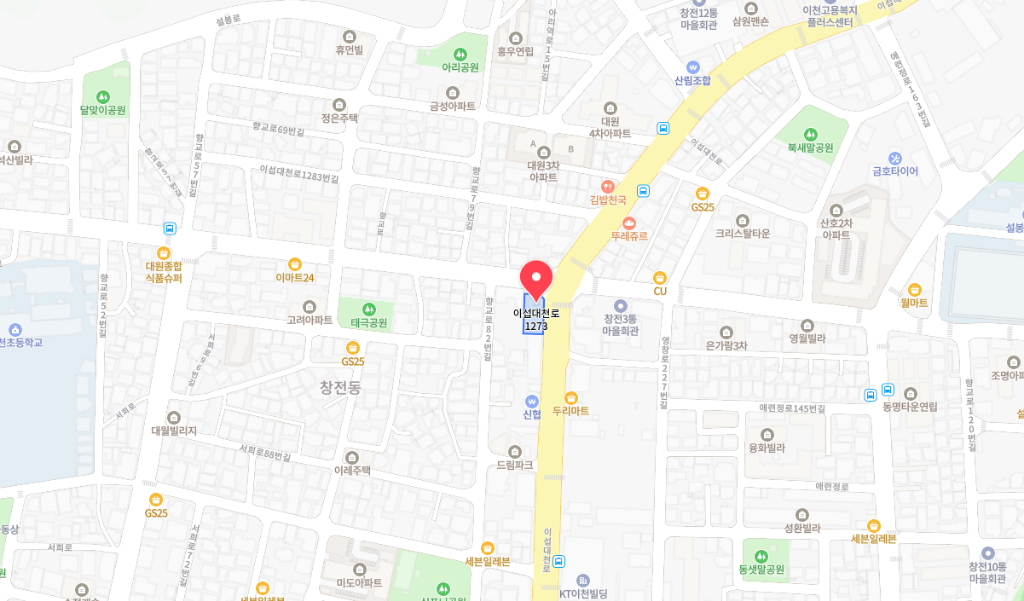
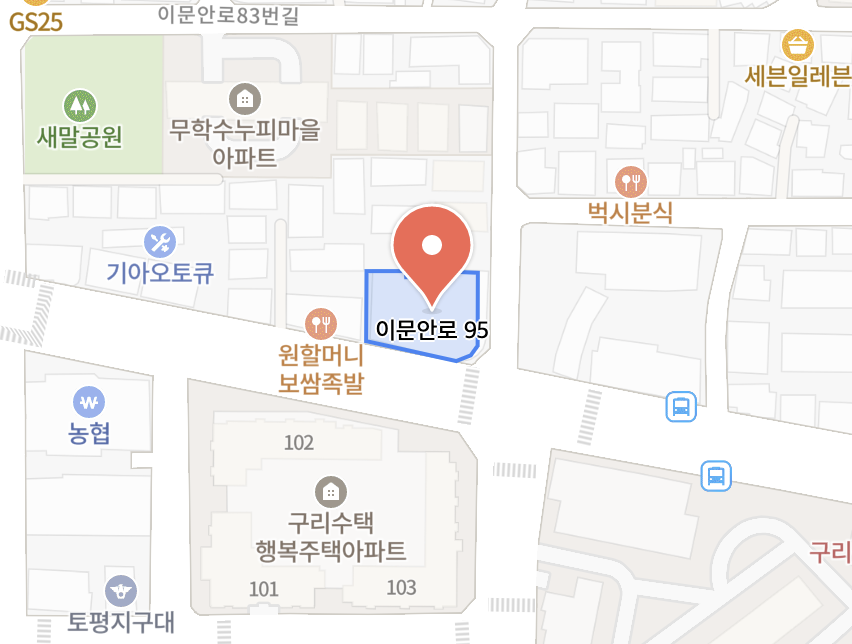
feat: misogold 세부 정보 입력

diff --git a/components/HeroBanner.tsx b/components/HeroBanner.tsx
@@ -68,16 +68,18 @@ export default function HeroBanner({ initialPrices }: HeroBannerProps) {
         >
           {/* Logo and Title above the table */}
           <div id="today-price" className="flex flex-col items-center gap-2">
-            <span className="mt-2 text-3xl sm:text-4xl font-extrabold tracking-tight text-zinc-900">
-              미소<span className="text-gold">골드</span>
-            </span>
+            <img
+              src="/miso-logo.png"
+              alt="미소금거래소"
+              className="mt-2 h-24 sm:h-28 w-auto"
+            />
             <h2 className="text-xl sm:text-2xl font-extrabold tracking-tight text-zinc-700">
               오늘의 시세표
             </h2>
           </div>
 
           {/* Unit and Date Row */}
-          <div className="flex justify-between items-center w-full text-sm sm:text-base font-semibold text-zinc-500 mb-2 px-1">
+          <div className="flex justify-between items-center w-full text-lg sm:text-xl font-semibold text-zinc-500 mb-2 px-1">
             <span>단위 : 3.75g 한돈 기준</span>
             <span>{todayDate}</span>
           </div>
@@ -100,6 +102,11 @@ export default function HeroBanner({ initialPrices }: HeroBannerProps) {
                     <th scope="col" className="px-2 py-1.5 sm:px-6 sm:py-2.5 text-[11px] sm:text-[16px] xl:text-[18px] font-bold tracking-wider text-zinc-900">
                       <span className="hidden sm:inline">내가 팔 때</span>
                       <span className="sm:hidden">내가 팔 때</span>
+                    </th>
+                  </tr>
+                  <tr className="border-b border-gold/30">
+                    <th colSpan={3} className="px-2 py-2 sm:py-2.5 text-[12px] sm:text-[16px] xl:text-[17px] font-bold tracking-tight text-gold-dark">
+                      * 추가적인 차감 없이 시세표 그대로 매입합니다 *
                     </th>
                   </tr>
                 </thead>
@@ -125,6 +132,20 @@ export default function HeroBanner({ initialPrices }: HeroBannerProps) {
                   )}
                 </tbody>
               </table>
+            </div>
+          </div>
+
+          {/* Purchase promise notice */}
+          <div className="mt-6 text-center">
+            <h3 className="text-lg sm:text-2xl font-extrabold tracking-tight text-zinc-900">
+              최고가 매입 최저가 판매로 정성껏 모시겠습니다
+            </h3>
+            <div className="mt-3 rounded-xl border-2 border-gold/50 px-3 py-5 sm:px-8 sm:py-6 text-[13px] sm:text-lg font-bold text-zinc-800">
+              <p>순금, 18K, 14K 모든 제품 매입 및 할인가 판매</p>
+              <p>치금, 은수저 등 모든 금/은제품 매입합니다.</p>
+              <p>GIA, 우신, 현대 다이아매입전문</p>
+              <p>감정서 없는 다이아몬드도 고가 매입해드립니다.</p>
+              <p>작은 양이라도 정성껏 매입합니다.</p>
             </div>
           </div>
         </div>
@@ -158,7 +179,7 @@ export default function HeroBanner({ initialPrices }: HeroBannerProps) {
             </div>
 
             <div>
-              <div className="flex justify-between items-center w-full text-sm sm:text-base font-semibold text-zinc-700 mb-3 px-2 sm:px-6">
+              <div className="flex justify-between items-center w-full text-lg sm:text-xl font-semibold text-zinc-700 mb-3 px-2 sm:px-6">
                 <span>단위 : 3.75g 한돈 기준</span>
                 <span>{todayDate}</span>
               </div>
@@ -179,6 +200,11 @@ export default function HeroBanner({ initialPrices }: HeroBannerProps) {
                         <th scope="col" className="px-2 py-2 sm:px-6 sm:py-3 text-[13px] sm:text-[18px] lg:text-[20px] font-bold tracking-wider text-zinc-900">
                           <span className="hidden sm:inline">내가 팔 때</span>
                           <span className="sm:hidden">내가 팔 때</span>
+                        </th>
+                      </tr>
+                      <tr className="border-b border-gold/25">
+                        <th colSpan={3} className="px-2 py-2.5 sm:py-3 text-[14px] sm:text-[18px] lg:text-[19px] font-bold tracking-tight text-gold-dark">
+                          * 추가적인 차감 없이 시세표 그대로 매입합니다 *
                         </th>
                       </tr>
                     </thead>
@@ -204,6 +230,20 @@ export default function HeroBanner({ initialPrices }: HeroBannerProps) {
                       )}
                     </tbody>
                   </table>
+                </div>
+              </div>
+
+              {/* Purchase promise notice */}
+              <div className="mt-8 text-center">
+                <h3 className="text-xl sm:text-3xl font-extrabold tracking-tight text-zinc-900">
+                  최고가 매입 최저가 판매로 정성껏 모시겠습니다
+                </h3>
+                <div className="mt-4 rounded-xl border-2 border-gold/50 px-3 py-5 sm:px-8 sm:py-7 text-[14px] sm:text-xl font-bold text-zinc-800">
+                  <p>순금, 18K, 14K 모든 제품 매입 및 할인가 판매</p>
+                  <p>치금, 은수저 등 모든 금/은제품 매입합니다.</p>
+                  <p>GIA, 우신, 현대 다이아매입전문</p>
+                  <p>감정서 없는 다이아몬드도 고가 매입해드립니다.</p>
+                  <p>작은 양이라도 정성껏 매입합니다.</p>
                 </div>
               </div>
             </div>

diff --git a/components/Directions.tsx b/components/Directions.tsx
@@ -3,8 +3,8 @@
 import React from "react";
 
 export default function Directions() {
-  const address = "경기도 이천시 이섭대천로 1273(창전동), 1층 101호";
-  const naverMapUrl = "https://map.naver.com/p/search/%EA%B2%BD%EA%B8%B0%EB%8F%84%20%EC%9D%B4%EC%B2%9C%EC%8B%9C%20%EC%9D%B4%EC%84%AD%EB%8C%80%EC%B2%9C%EB%A1%9C%201273%20(%EC%B0%BD%EC%A0%84%EB%8F%99)%2C%201%EC%B8%B5%20101%ED%98%B8";
+  const address = "경기도 구리시 이문안로 95, 104호(수택동, 해원빌딩)";
+  const naverMapUrl = "https://map.naver.com/p/search/%EA%B2%BD%EA%B8%B0%EB%8F%84%20%EA%B5%AC%EB%A6%AC%EC%8B%9C%20%EC%9D%B4%EB%AC%B8%EC%95%88%EB%A1%9C%2095%20%ED%95%B4%EC%9B%90%EB%B9%8C%EB%94%A9";
 
   return (
     <section id="directions" className="py-24 bg-background border-t border-zinc-200">
@@ -57,9 +57,12 @@ export default function Directions() {
                 <p className="mt-2 text-lg font-extrabold text-zinc-900 leading-relaxed">
                   {address}
                 </p>
-                <p className="mt-1 text-sm text-zinc-500 font-semibold">
-                  * 주차정보: 무료주차 가능
+                <p className="mt-1 text-base font-bold text-gold-dark">
+                  (수택동 장스365의원/럭키아파트 사거리앞)
                 </p>
+                {/* <p className="mt-1 text-sm text-zinc-500 font-semibold">
+                  * 주차정보: 무료주차 가능
+                </p> */}
               </div>
 
               {/* Business Hours */}
@@ -70,7 +73,7 @@ export default function Directions() {
                     <span className="font-bold">매일</span>
                     <span className="font-mono font-bold text-zinc-900">09:00 - 19:30</span>
                   </div>
-                  <div className="py-2 text-emerald-600 font-bold text-xs">
+                  <div className="py-2 text-emerald-600 font-bold text-base">
                     * 365일 휴일없이 영업합니다^^
                   </div>
                 </div>
@@ -81,10 +84,7 @@ export default function Directions() {
                 <h4 className="text-xs font-bold text-gold uppercase tracking-wider">전화번호</h4>
                 <div className="mt-2 space-y-1">
                   <p className="text-xl font-extrabold text-zinc-800 font-mono">
-                    031-636-3060
-                  </p>
-                  <p className="text-xl font-extrabold text-zinc-800 font-mono">
-                    010-7634-2231
+                    010-6655-2299
                   </p>
                 </div>
               </div>
@@ -94,13 +94,13 @@ export default function Directions() {
             {/* Quick action buttons */}
             <div className="grid grid-cols-2 gap-4 pt-6 border-t border-zinc-200">
               <a
-                href="tel:010-7634-2231"
+                href="tel:010-6655-2299"
                 className="flex items-center justify-center gap-2 rounded-xl bg-gold py-3 text-center text-sm font-bold text-white shadow-sm hover:bg-gold-dark transition-all duration-150"
               >
                 전화 바로 걸기
               </a>
               <a
-                href="sms:010-7634-2231?body=안녕하세요. 금 시세 문의드립니다."
+                href="sms:010-6655-2299?body=안녕하세요. 금 시세 문의드립니다."
                 className="flex items-center justify-center gap-2 rounded-xl bg-zinc-800 py-3 text-center text-sm font-bold text-white shadow-sm hover:bg-zinc-700 transition-all duration-150"
               >
                 문자 문의하기

diff --git a/components/FloatingWidgets.tsx b/components/FloatingWidgets.tsx
@@ -1,6 +1,7 @@
 "use client";
 
 import React, { useState } from "react";
+import Image from "next/image";
 
 export default function FloatingWidgets() {
   const [isOpen, setIsOpen] = useState(true);
@@ -26,7 +27,7 @@ export default function FloatingWidgets() {
         <>
           {/* 1. Phone Call Action */}
           <a
-            href="tel:010-7634-2231"
+            href="tel:010-6655-2299"
             className="flex h-10 w-10 items-center justify-center rounded-full bg-gold text-white shadow-xl hover:bg-gold-dark hover:scale-110 transition-all duration-200"
             title="전화 문의하기"
           >
@@ -48,10 +49,10 @@ export default function FloatingWidgets() {
           </button>
 
           {/* 3. Naver Talk Talk (Message Widget) */}
+          {/* 미소금거래소 톡톡 채널 준비 전까지 클릭 이동 임시 비활성화.
+              복원 시 아래에 href / target="_blank" / rel="noopener noreferrer" 다시 추가 */}
           <a
-            href="https://talk.naver.com/ct/w9ehxwv?frm=home"
-            target="_blank"
-            rel="noopener noreferrer"
+            onClick={(event) => event.preventDefault()}
             className="flex h-10 w-10 items-center justify-center rounded-full bg-gold text-white shadow-xl hover:bg-gold-dark hover:scale-110 transition-all duration-200"
             title="톡톡 상담하기"
           >
@@ -62,15 +63,17 @@ export default function FloatingWidgets() {
 
           {/* 4. Naver Map Link (Green Circle Button) */}
           <a
-            href="https://map.naver.com/p/entry/place/2040610373?placePath=%2Fhome%3Ffrom%3Dmap%26fromPanelNum%3D1%26additionalHeight%3D76%26timestamp%3D202607041746%26locale%3Dko%26svcName%3Dmap_pcv5"
+            href="https://map.naver.com/p/search/%EA%B2%BD%EA%B8%B0%EB%8F%84%20%EA%B5%AC%EB%A6%AC%EC%8B%9C%20%EC%9D%B4%EB%AC%B8%EC%95%88%EB%A1%9C%2095%20%ED%95%B4%EC%9B%90%EB%B9%8C%EB%94%A9"
             target="_blank"
             rel="noopener noreferrer"
             className="flex h-10 w-10 items-center justify-center rounded-full shadow-xl hover:scale-110 transition-all duration-200 cursor-pointer overflow-hidden"
             title="네이버 지도에서 보기"
           >
-            <img
+            <Image
               src="/naver-map-icon.png"
               alt="네이버 지도"
+              width={40}
+              height={40}
               className="w-full h-full object-cover"
             />
           </a>

diff --git a/components/Header.tsx b/components/Header.tsx
@@ -83,9 +83,11 @@ export default function Header() {
             onClick={() => scrollToSection("hero")}
             className="flex items-center focus:outline-none cursor-pointer"
           >
-            <span className="py-6 text-2xl sm:text-3xl font-extrabold tracking-tight text-zinc-900">
-              미소<span className="text-gold">골드</span>
-            </span>
+            <img
+              src="/miso-logo.png"
+              alt="미소금거래소"
+              className="h-14 sm:h-16 w-auto py-1"
+            />
           </button>
         </div>
 
@@ -109,7 +111,7 @@ export default function Header() {
         {/* Contact/CTA */}
         <div className="hidden lg:flex lg:flex-1 lg:justify-end">
           <a
-            href="tel:010-7634-2231"
+            href="tel:010-6655-2299"
             className="rounded-full bg-gold px-5 py-2 text-sm font-semibold text-white shadow-sm hover:bg-gold-dark transition-colors duration-200"
           >
             전화 상담 문의
@@ -178,7 +180,7 @@ export default function Header() {
               오시는 길
             </button>
             <a
-              href="tel:010-7634-2231"
+              href="tel:010-6655-2299"
               className="mt-4 block w-full text-center rounded-lg bg-gold py-2.5 text-base font-semibold leading-7 text-white shadow-sm hover:bg-gold-dark"
             >
               전화 상담 문의

diff --git a/components/Footer.tsx b/components/Footer.tsx
@@ -24,9 +24,9 @@ export default function Footer() {
           <h4 className="text-sm font-bold text-zinc-900 tracking-wider">사업자 정보</h4>
           <ul className="space-y-2">
             <li>상호명: 미소금거래소</li>
-            <li>대표자: 전진호</li>
-            <li>사업자등록번호: 271-10-03331</li>
-            <li>소재지: 경기도 이천시 이섭대천로 1273(창전동), 1층 101호</li>
+            <li>대표자: 박다미</li>
+            <li>사업자등록번호: 345-75-00629</li>
+            <li>소재지: 경기도 구리시 이문안로 95, 104호(수택동, 해원빌딩)</li>
           </ul>
         </div>
 
@@ -34,8 +34,8 @@ export default function Footer() {
         <div className="space-y-4 text-xs">
           <h4 className="text-sm font-bold text-zinc-900 tracking-wider">고객 센터</h4>
           <ul className="space-y-2">
-            <li className="text-base font-bold text-gold-dark">대표전화: 031-636-3060 / 010-7634-2231</li>
-            <li>이메일: junjingold@naver.com</li>
+            <li className="text-base font-bold text-gold-dark">대표전화: 010-6655-2299</li>
+            <li>이메일: misogold2299@naver.com</li>
           </ul>
         </div>
 

diff --git a/components/obsolete/PurchasedItems.tsx b/components/obsolete/PurchasedItems.tsx
@@ -126,7 +126,7 @@ export default function PurchasedItems() {
 
               <div className="mt-6 pt-4 border-t border-zinc-100 flex justify-end">
                 <a
-                  href="tel:010-7634-2231"
+                  href="tel:010-6655-2299"
                   className="text-xs font-semibold text-gold group-hover:text-gold-dark flex items-center gap-1 cursor-pointer"
                 >
                   시세 및 매입 상담 문의 <span className="transition-transform group-hover:translate-x-1">→</span>
